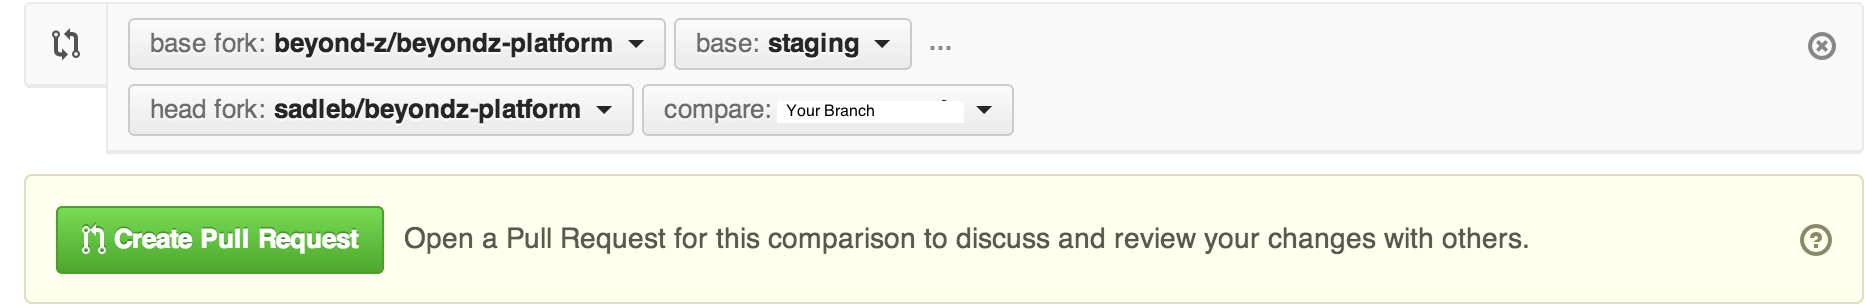
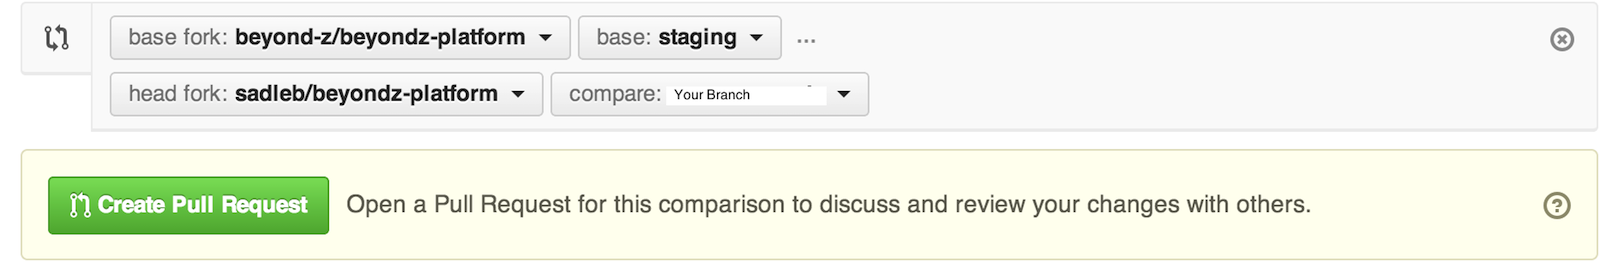
Update README images to clarify pull request instructions

diff --git a/README.md b/README.md
@@ -79,9 +79,11 @@ Select the feature branch from your Github page using the drop down selector.
 
 Then click the green pull request button to the left hand side of the drop down.
 
-On the next screen, click "Edit" near the right-hand side of the screen to choose the Staging branch on beyondz-platform.
+On the next screen, click "Edit" near the right-hand side of the screen.
 
 ![Edit location](docs/edit-branch.png)
+
+Then choose the 'staging' branch of the beyondz-platform. 
 
 ![Edit location](docs/staging-pull.png)
 
